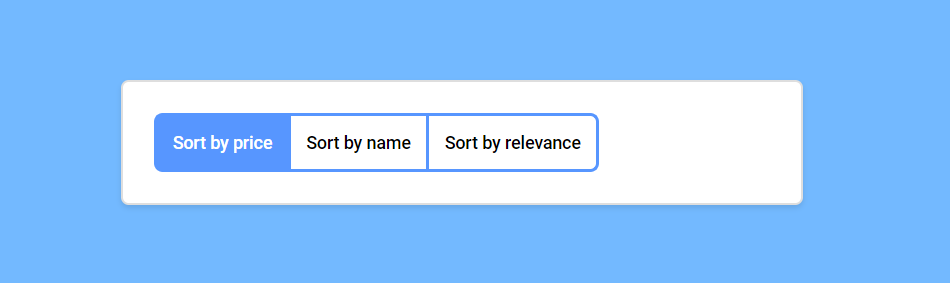
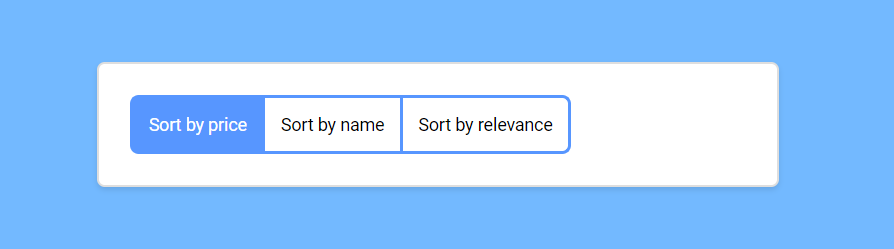
fix font weight

Changed region(s): [[0.0906, 0.2249, 0.8758, 0.759]]

diff --git a/README.md b/README.md
@@ -26,4 +26,4 @@ You can find below the lives versions of my solutions :
 
 ### Loop 1 :
 
-- Step 1 :
+- Step 1 : [Segmented Control / Select](https://zathio.github.io/frontloops-challenges/elements-challenges/loop1-step1/)
